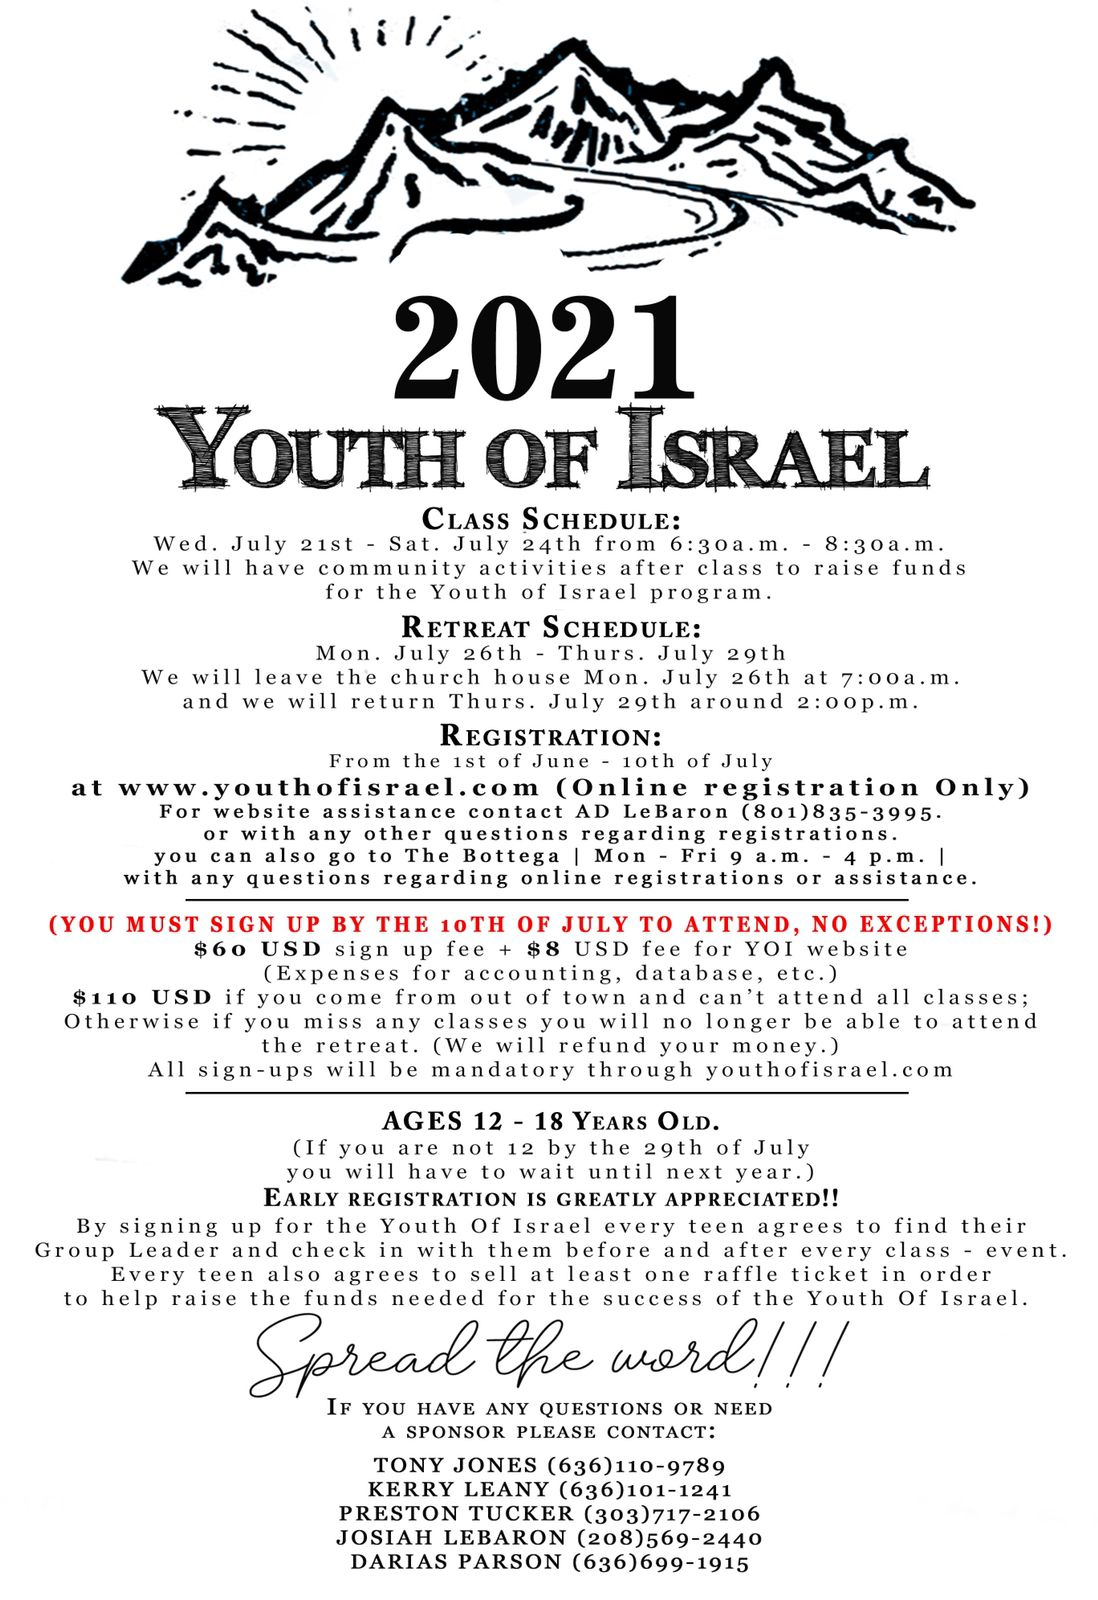
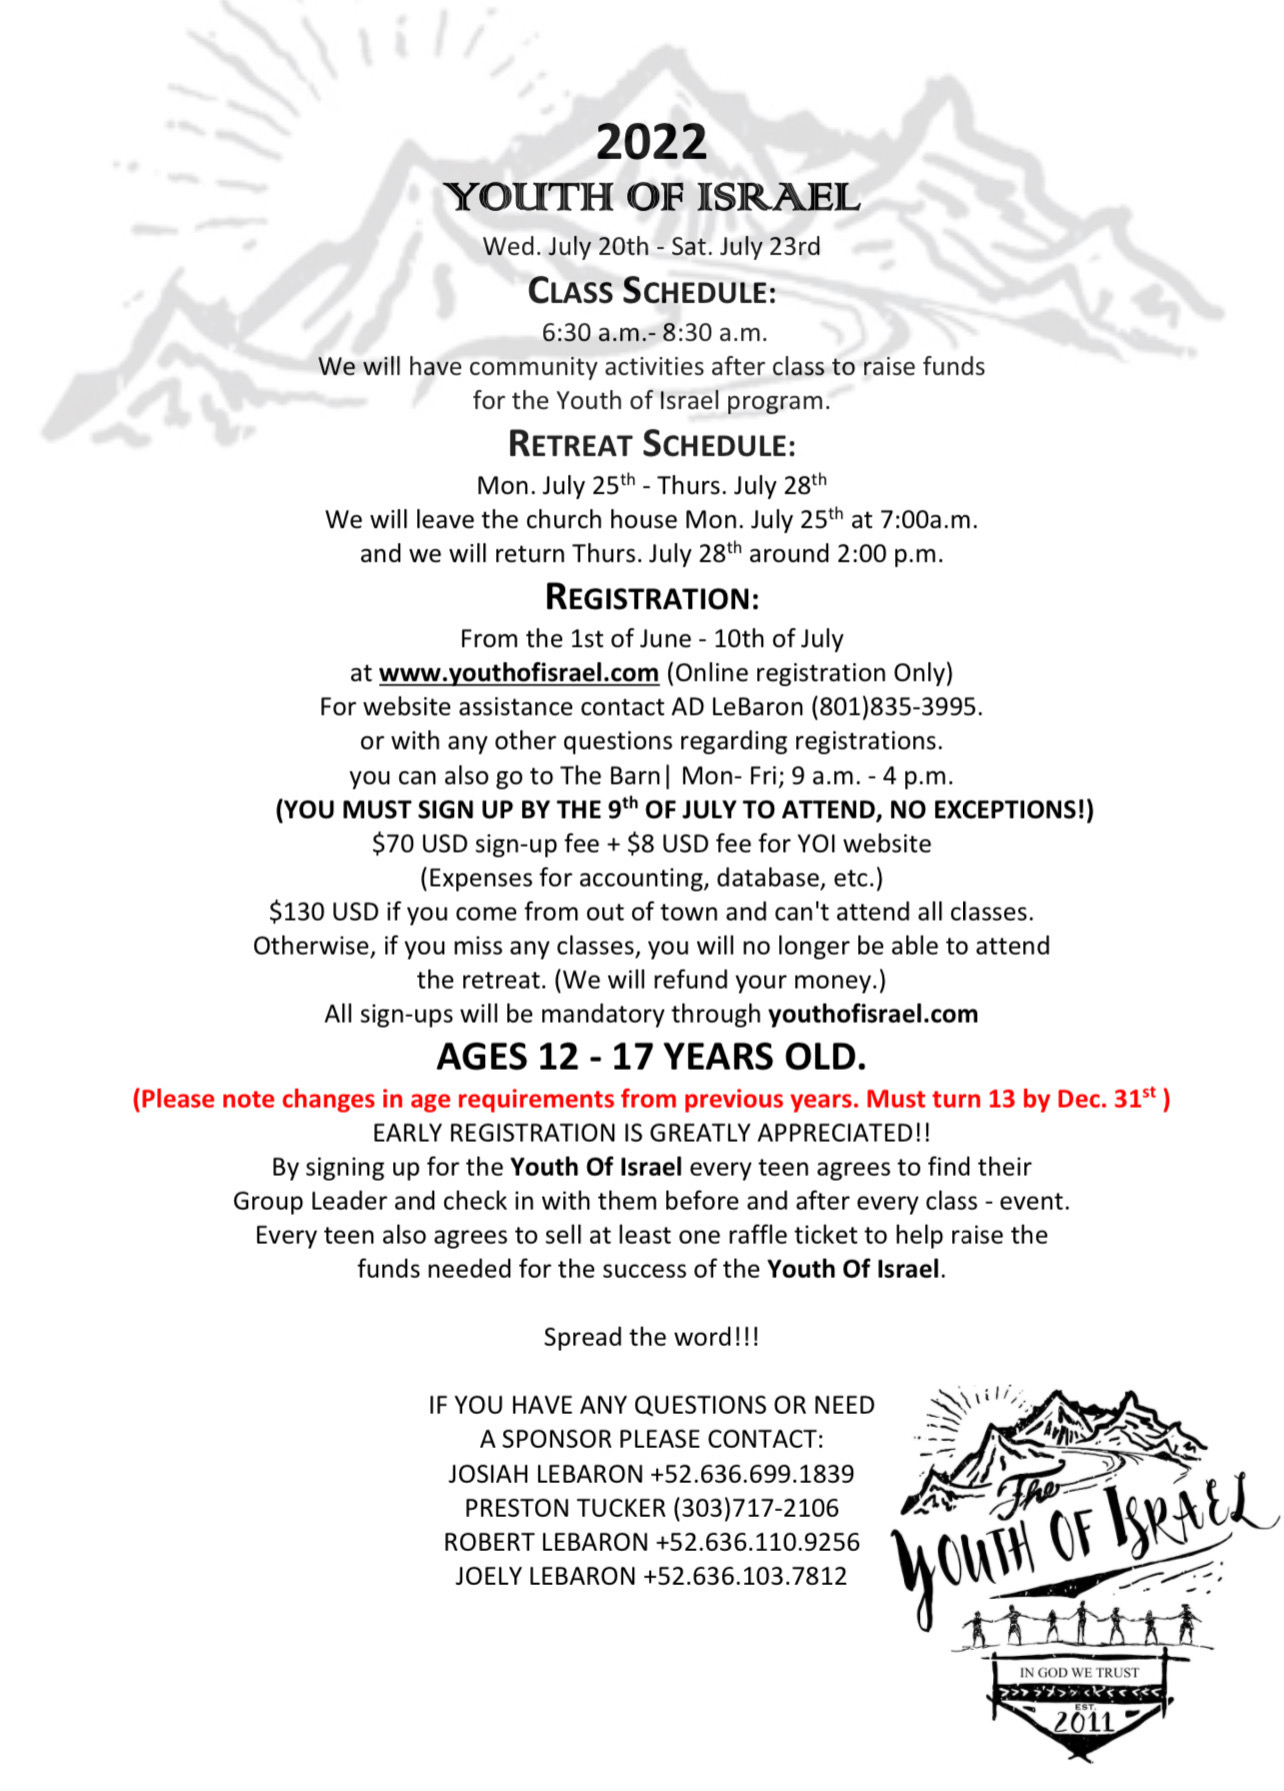
changed to 2022

diff --git a/index.html b/index.html
@@ -31,11 +31,10 @@
                 <div class="contact-hours-wrapper">
                     <div class="phone">
                     8018353995
-                    July 21st 
-                    July 29th
+                    July 20th to july 28th
                 </div>
                 <div>
-                    <a href="/ContributorsGiveAway.html"> Contributors Give Away <br> Starts July 21st</a>
+                    <a href="/ContributorsGiveAway.html"> Contributors Give Away <br> Starts TBD</a>
                 </div>
                 <div class="hours">
                   
@@ -78,7 +77,7 @@
 
             <div class="fechas">
             <h1>REGISTRATION</h1>
-            <h2>Ended</h2>
+            <h2>June 1st to July 10th</h2>
            
             <a href="https://lebarongaleana.com/">Click here </a>   
             
@@ -101,14 +100,14 @@
         </div>
         <div class="hero-section">
             <div class ="top-heading">
-                <H1>Faith over Fear</H1>
-                <h1>2021 HEAD STAFF </h1>
-                <h2> Preston Tucker <hr> Kerry Leany  <hr> Josiah LeBaron <hr> Darias Parson  </h2>
+                <H1>"I AM"</H1>
+                <h1>2022 HEAD STAFF </h1>
+                <h2> - Preston Tucker <hr> - Josiah Lebaron  <hr> - Robert Lebaron <hr> - Joely LeBaron </h2>
             </div>
             <div class="bottom-heading">
-                <h3> Classes at the Church House and activities to  raise funds will be from  <h2><b>July 21st through sat. July 24th</b></h2> . 
+                <h3> Classes at the Church House and activities to  raise funds will be from  <h2><b>Wed. July 20th through sat. July 23rd</b></h2> . 
 
-                    We will leave for the Retreat <h2><b>Monday  July 26th and return   July 29th</b></h2> . </h3>
+                    We will leave for the Retreat <h2><b>Monday  July 25th and return   July 28th</b></h2> . </h3>
             </div>
         </div>
         <!-- <a href="http://lebaron-galeana-frontend.s3-website-us-west-2.amazonaws.com/">Sign up</a> -->
@@ -159,7 +158,7 @@
         
             <div class="footer-letras">
                 <span class="hours">
-                    July 21st thru July 29th
+                    July 20th thru July 28th
                </span>
             </div>
 
